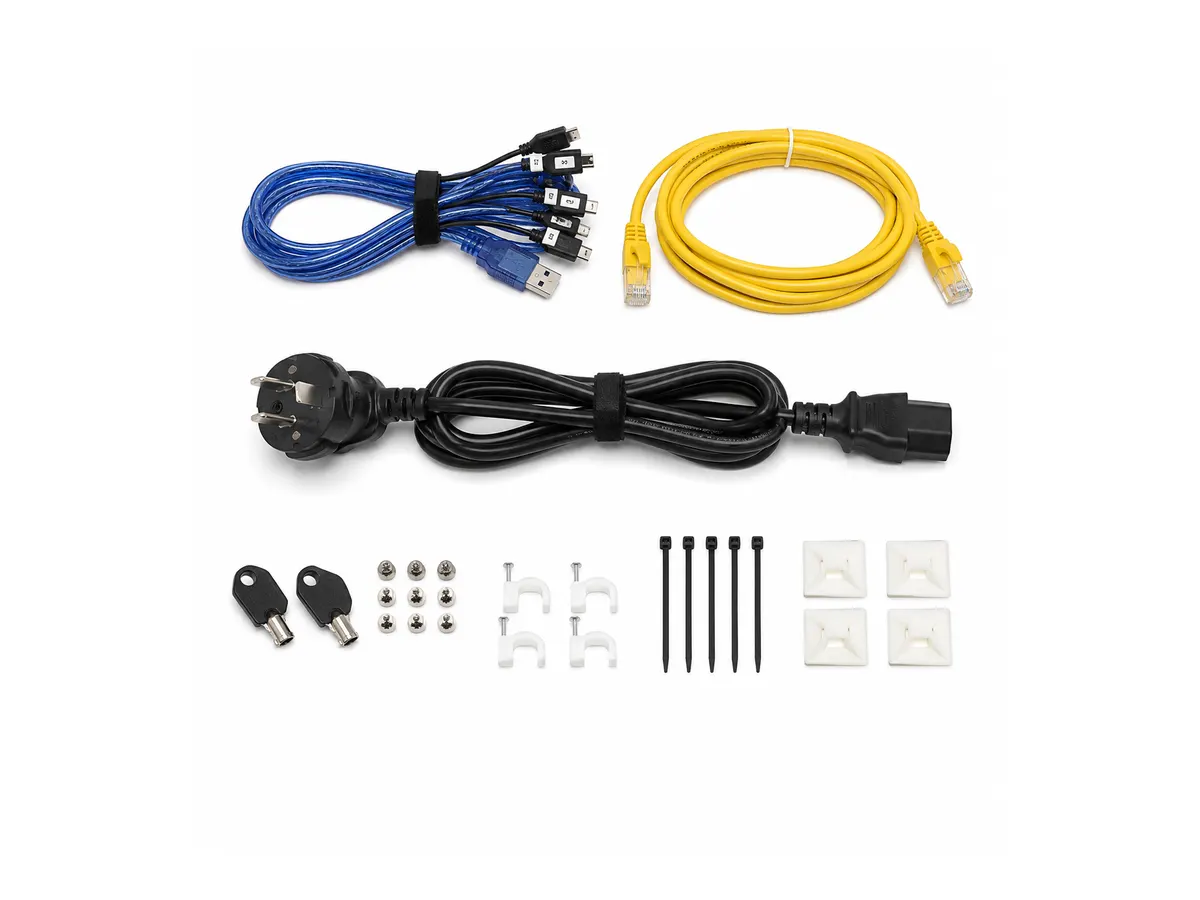
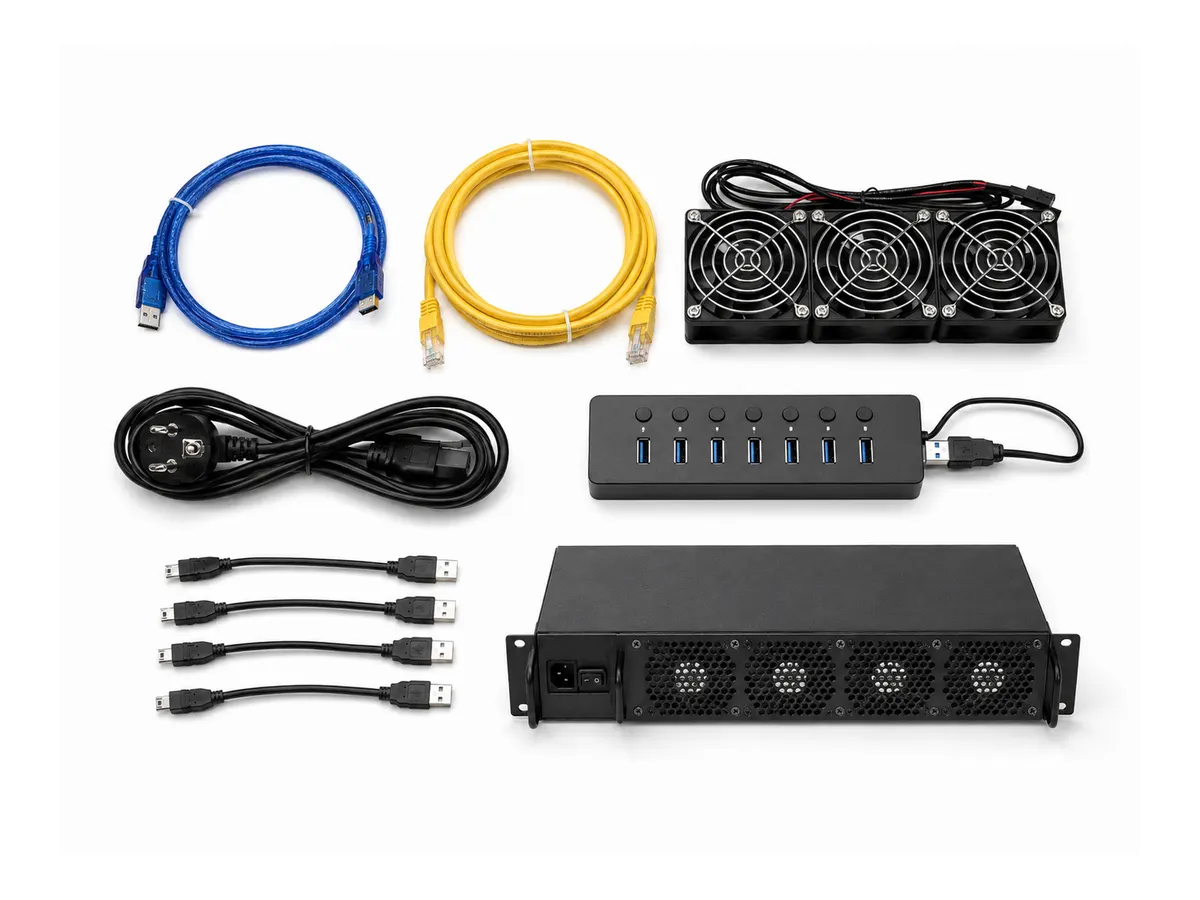
Batch 4: iPhone PDP notice, accessory galleries, homepage dedup
Add chassis photo notices on iPhone/cooling/remote PDPs, expand cooling and remote-control image sync, refocus homepage catalog grid on rack SKUs only, and improve iPhone product copy and FAQ.

diff --git a/src/data/products.ts b/src/data/products.ts
@@ -260,15 +260,16 @@ export const PRODUCT_SEEDS: ProductSeed[] = [
     name: "iPhone Phone Farm",
     category: "iPhone Phone Farm",
     productLine: "rack-systems",
-    shortDesc: "Rack hardware for real iPhone arrays — Lightning/USB-C routing, charging bus, and iOS lab layout.",
+    shortDesc: "iOS lab rack chassis — Lightning/USB-C routing, charging bus, and slot layout (iPhones BYO).",
     description:
-      "The iPhone Phone Farm rack is wired for Apple device form factors with centralized charging and hub paths suited to iOS QA workflows. iPhones are customer-supplied. Product photos show the rack chassis and slot layout — not bundled iPhones. Final cable plan depends on your iPhone generation mix (Lightning vs USB-C) and whether a macOS control station is part of your lab design.",
+      "The iPhone Phone Farm is rack hardware engineered for real iPhone arrays: ventilated chassis, centralized charging bus, and data paths sized for iOS QA workflows. iPhones are always customer-supplied — photos on this page show chassis front/rear views and slot spacing only. Before shipment we document a cable plan matched to your iPhone generation mix (Lightning, USB-C, or mixed) and whether a macOS control station sits beside the rack.",
     features: [
-      "iPhone slot layout with generation-specific cable plan",
-      "Centralized charging bus",
-      "macOS control station compatibility (buyer-provided Mac)",
-      "Suited for TestFlight and iOS build validation",
-      "Workshop cable routing test before shipment",
+      "20-slot chassis with status LED row and rear fan/PSU bay",
+      "Generation-specific Lightning or USB-C cable kit quoted separately",
+      "Centralized charging bus — avoids per-phone wall adapters",
+      "macOS control station compatible (Mac not included)",
+      "Workshop cable routing and detection test before export",
+      "Pairs with Remote Control Setup for first-boot iOS lab commissioning",
     ],
     specs: {
       "Product type": "iOS lab rack — Lightning / USB-C routing for real iPhones",
@@ -310,7 +311,10 @@ export const PRODUCT_SEEDS: ProductSeed[] = [
     afterSales: ["iPhone-specific cable replacements", "Remote guidance on charging bus issues"],
     quoteGuidance: "List iPhone models, quantity, macOS version, and shipping destination.",
     faq: [
-      { q: "Do I need a Mac?", a: "Most iOS lab workflows use a macOS control station. We supply rack hardware only." },
+      { q: "Are iPhones included?", a: "No. This SKU is rack chassis and cabling hardware only. You supply iPhones matched to the quoted slot layout." },
+      { q: "Do I need a Mac?", a: "Most iOS lab workflows use a macOS control station for Xcode, TestFlight, and device trust. We supply rack hardware — not the Mac." },
+      { q: "Lightning and USB-C in one rack?", a: "Possible with a mixed cable kit. List every model and connector type in your quote request so sales can split slot ranges correctly." },
+      { q: "Why do photos show an empty chassis?", a: "Factory photos document slot spacing, I/O panel, and cooling layout. Your devices are installed on-site after delivery." },
     ],
     priceUsd: 1280,
     stock: 5,

diff --git a/src/components/products/chassis-photo-notice.tsx b/src/components/products/chassis-photo-notice.tsx
@@ -1,0 +1,48 @@
+import Link from "next/link";
+
+type Props = {
+  slug: string;
+};
+
+const NOTICES: Record<string, { title: string; body: string }> = {
+  "iphone-phone-farm": {
+    title: "Chassis-only product photos",
+    body:
+      "Gallery images show the iPhone rack chassis, slot layout, and rear cooling/PSU bay — not bundled iPhones. You supply devices; we confirm Lightning vs USB-C cable routing in your quote.",
+  },
+  "cooling-solution": {
+    title: "Module + rack airflow reference",
+    body:
+      "Photos include the fan module and rack rear airflow layout. Exact fan count and CFM rating are confirmed per rack model in your quotation.",
+  },
+  "remote-control-setup": {
+    title: "Workshop setup service",
+    body:
+      "This SKU is a configuration service — gallery shows workstation and connectivity reference. Scope covers ADB/iOS detection walkthrough after your rack hardware is delivered.",
+  },
+};
+
+export function ChassisPhotoNotice({ slug }: Props) {
+  const notice = NOTICES[slug];
+  if (!notice) return null;
+
+  return (
+    <div className="mb-6 p-4 rounded-xl border border-[var(--border)] bg-[var(--surface-muted)]/60">
+      <p className="text-sm font-semibold text-[var(--text)] mb-1">{notice.title}</p>
+      <p className="text-sm text-[var(--text-muted)] leading-relaxed">{notice.body}</p>
+      {slug === "iphone-phone-farm" && (
+        <p className="text-xs text-[var(--text-subtle)] mt-2">
+          See also{" "}
+          <Link href="/knowledge-base/remote-control-setup-guide" className="text-[var(--brand)] hover:underline">
+            Remote Control Setup
+          </Link>{" "}
+          and{" "}
+          <Link href="/packages/iphone-farm-suite" className="text-[var(--brand)] hover:underline">
+            iPhone Farm Suite
+          </Link>
+          .
+        </p>
+      )}
+    </div>
+  );
+}

diff --git a/src/app/products/[slug]/page.tsx b/src/app/products/[slug]/page.tsx
@@ -4,6 +4,7 @@ import { getCatalogProduct, listCatalogProducts } from "@/lib/catalog";
 import { RelatedProducts } from "@/components/commerce";
 import { ProductGallery } from "@/components/product-gallery";
 import { BuyBox } from "@/components/products/buy-box";
+import { ChassisPhotoNotice } from "@/components/products/chassis-photo-notice";
 import { ProductDetailSections } from "@/components/products/product-detail-sections";
 import { ContactCTA, JsonLd } from "@/components/shared";
 import { PageIntro } from "@/components/ui/page-intro";
@@ -108,6 +109,7 @@ export default async function ProductDetailPage({ params }: Props) {
 
       <div className="section section-light pt-0">
         <div className="container-hero">
+          <ChassisPhotoNotice slug={slug} />
           <div className="grid lg:grid-cols-[1.15fr_0.85fr] gap-10 lg:gap-14 xl:gap-16 mb-16">
             <ProductGallery
               images={gallery.images}

diff --git a/src/lib/product-gallery-curate.ts b/src/lib/product-gallery-curate.ts
@@ -37,8 +37,10 @@ const ACCESSORY_CAPTIONS: Record<string, string> = {
   "electronics-workbenchdetail": "Cooling fan module — rack airflow",
   "networkdevice-accessories": "Network switch / router accessories",
   "networkdevice-cablesaccessoriesshowcase": "Network cables and rack accessories",
-  "computeraccessories-showcase": "Router and switch module showcase",
+  "computeraccessories-showcase": "Control workstation — router and switch reference",
   "techaccessories-showcase": "Remote setup — workstation accessories",
+  "chassis-rear-psu-and-cooling-fans": "Rack rear — PSU bay and cooling fan row",
+  "empty-chassis-rear-4-fan-psu-bay": "Rear fan module — 4-fan PSU bay layout",
 };
 
 function accessoryCaption(label: string): string {

diff --git a/src/components/home/home-catalog-grid.tsx b/src/components/home/home-catalog-grid.tsx
@@ -7,9 +7,9 @@ export function HomeCatalogGrid({ products }: { products: ShopProductCardProps[]
     <section className="section">
       <div className="container-hero">
         <SectionHeader
-          eyebrow="Full Catalog"
-          title="All Hardware SKUs"
-          subtitle="Reference USD pricing and stock status - register to order or contact sales for bulk quotes."
+          eyebrow="Rack Lineup"
+          title="Racks & Cabinets — USD Pricing"
+          subtitle="Main deployment SKUs with stock status. Accessories and modules are in the category grid above."
         />
         <div className="grid sm:grid-cols-2 lg:grid-cols-3 xl:grid-cols-4 gap-6 mt-4">
           {products.map((p) => (

diff --git a/src/app/page.tsx b/src/app/page.tsx
@@ -28,7 +28,17 @@ export default async function HomePage() {
   const allProducts = await listCatalogProducts({ orderBy: "name" });
   const featured = allProducts.slice().sort((a, b) => a.priceUsd - b.priceUsd).slice(0, 3);
 
-  const catalogCards = allProducts.map((p) => {
+  const RACK_SLUGS = new Set([
+    "phone-farm-box",
+    "motherboard-box",
+    "android-phone-farm",
+    "iphone-phone-farm",
+    "real-device-phone-farm",
+    "empty-box-chassis",
+    "custom-cabinet",
+  ]);
+
+  const catalogCards = allProducts.filter((p) => RACK_SLUGS.has(p.slug)).map((p) => {
     const seed = getProductSeed(p.slug);
     const line = seed ? getProductLine(seed.productLine) : null;
     return {
